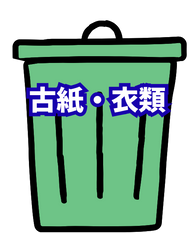
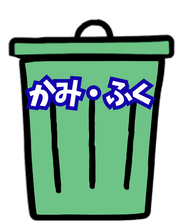
Add files via upload

Changed region(s): [[0.0275, 0.1622, 0.9066, 1.0], [0.4121, 0.0811, 0.6319, 0.1892], [0.2198, 0.1622, 0.2473, 0.1892]]

diff --git a/script.js b/script.js
@@ -210,7 +210,7 @@ class HomeScene extends Phaser.Scene {
     // 分別チャレンジ
     const btnChallenge = this.add.text(320, 260, "分別チャレンジ", {
       fontSize: "24px",
-      color: "#00796b",
+      color: "#444",
       padding: { top: 10, bottom: 0 }
     }).setInteractive({ useHandCursor: true }).setDepth(202);
 
@@ -221,7 +221,7 @@ class HomeScene extends Phaser.Scene {
     // アイテム一覧
     const btnItems = this.add.text(320, 320, "アイテム一覧", {
       fontSize: "24px",
-      color: "#444",
+      color: "#00796b",
       padding: { top: 10, bottom: 0 }
     }).setInteractive({ useHandCursor: true }).setDepth(202);
 
@@ -271,8 +271,100 @@ class StartScene extends Phaser.Scene {
     this.load.image('cloth', 'assets/trash/cloth.png');
     this.load.image('battery', 'assets/trash/battery.png');
     this.load.image('handyfan', 'assets/trash/handyfan.png');
-
+    this.load.image("howto_page1", "assets/ui/howto_page1.png");
+    this.load.image("howto_page2", "assets/ui/howto_page2.png");
+    this.load.image("arrow_left", "assets/ui/arrow_left.png");
+    this.load.image("arrow_right", "assets/ui/arrow_right.png");
+    this.load.image("howto_button", "assets/ui/howto_button.png");
   }
+  openHelpPopup() {
+    // 暗幕
+    const dim = this.add.rectangle(400, 300, 800, 600, 0x000000, 0.55)
+      .setDepth(200)
+      .setInteractive();
+
+    // パネル
+    const panel = this.add.image(400, 300, "help_panel")
+      .setDepth(201)
+      .setScale(0.6);
+
+    // 暗幕をクリックで閉じる
+    dim.on("pointerdown", () => {
+      dim.destroy();
+      panel.destroy();
+    });
+  }
+  openHowtoPopup() {
+
+  //暗幕
+  const dim = this.add.rectangle(400, 300, 800, 600, 0x000000, 0.55)
+    .setDepth(200)
+    .setInteractive();
+
+  //ページ1
+  const page1 = this.add.image(400, 300, "howto_page1")
+    .setDepth(201)
+    .setScale(0.6);
+
+  //右矢印ページ２へ
+  const arrowRight = this.add.image(730, 300, "arrow_right")
+    .setDepth(202)
+    .setScale(0.3)
+    .setInteractive({ useHandCursor: true });
+
+  //ページ２最初は非表示
+  const page2 = this.add.image(400, 300, "howto_page2")
+    .setDepth(201)
+    .setScale(0.6)
+    .setVisible(false);
+
+  //左矢印ページ１へ、最初は非表示
+  const arrowLeft = this.add.image(70, 300, "arrow_left")
+    .setDepth(202)
+    .setScale(0.3)
+    .setVisible(false)
+    .setInteractive({ useHandCursor: true });
+
+
+  //右矢印：ページ２
+
+  arrowRight.on("pointerdown", () => {
+    page1.setVisible(false);
+    arrowRight.setVisible(false);
+
+    page2.setVisible(true);
+    arrowLeft.setVisible(true);
+  });
+
+
+  //左矢印：ページ１に戻る
+
+  arrowLeft.on("pointerdown", () => {
+    page2.setVisible(false);
+    arrowLeft.setVisible(false);
+
+    page1.setVisible(true);
+    arrowRight.setVisible(true);
+  });
+
+
+  //　暗幕クリックでポップアップ閉じる
+
+  dim.on("pointerdown", () => {
+    dim.destroy();
+    page1.destroy();
+    page2.destroy();
+    arrowLeft.destroy();
+    arrowRight.destroy();
+  });
+
+  // パネル内クリックは閉じない
+  page1.on("pointerdown", e => e.stopPropagation());
+  page2.on("pointerdown", e => e.stopPropagation());
+  arrowLeft.on("pointerdown", e => e.stopPropagation());
+  arrowRight.on("pointerdown", e => e.stopPropagation());
+}
+
   create() {
 
     currentDifficulty = "easy";
@@ -327,6 +419,55 @@ class StartScene extends Phaser.Scene {
 
     // 初期マーク表示
     this.showDifficultyMark(this.difficultyButtons[0]);
+
+    // ヘルプボタン
+    const helpBtn = this.add.image(760, 35, "help_button")
+      .setDepth(30)
+      .setScale(0.15)
+      .setInteractive({ useHandCursor: true });
+
+    //ホバー
+    helpBtn.on("pointerover", () => {
+      this.tweens.add({ targets: helpBtn, scale: 0.17, duration: 120 });
+    });
+    helpBtn.on("pointerout", () => {
+      this.tweens.add({ targets: helpBtn, scale: 0.15, duration: 120 });
+    });
+
+    helpBtn.on("pointerdown", () => {
+      this.openHelpPopup();
+    });
+
+    //あそびかたボタン
+    const howtoBtn = this.add.image(490, 206, "howto_button")
+      .setInteractive({ useHandCursor: true })
+      .setScale(0.66);
+
+    // ホバー演出
+    howtoBtn.on("pointerover", () => {
+      this.tweens.add({
+        targets: howtoBtn,
+        scale: 0.76,
+        duration: 120
+      });
+    });
+    howtoBtn.on("pointerout", () => {
+      this.tweens.add({
+        targets: howtoBtn,
+        scale: 0.66,
+        duration: 120
+      });
+    });
+
+
+    howtoBtn.on("pointerdown", () => {
+      this.openHowtoPopup();
+
+
+
+
+    });
+
 
     // 戻るボタン
     const backBtn = this.add.image(490, 280, "back_button")
@@ -442,6 +583,7 @@ class GameScene extends Phaser.Scene {
     this.load.image("nice", "assets/ui/nice.png");
     this.load.image("perfect", "assets/ui/perfect.png");
     this.load.image("char_frame", "assets/ui/char_frame.png");
+    this.load.image("help_button_locked", "assets/ui/help_button_locked.png");
   }
 
   init(data) {
@@ -555,28 +697,42 @@ class GameScene extends Phaser.Scene {
 
 
 
-    this.timeLimit = 30;
-    this.timerText = this.add.text(20, 20, "時間: 60", { fontSize: "24px", color: "#000", padding: { top: 10, bottom: 0 } }).setDepth(102);
+    this.timeLimit = 40;
+    this.timerText = this.add.text(20, 20, "時間: 40", { fontSize: "24px", color: "#000", padding: { top: 10, bottom: 0 } }).setDepth(102);
     this.scoreText = this.add.text(180, 20, "スコア: 0", { fontSize: "24px", color: "#000", padding: { top: 10, bottom: 0 } }).setDepth(102);
 
     // ？ボタン
-    this.helpBtn = this.add.image(760, 35, "help_button")
-      .setDepth(110)        //帯より前
-      .setScale(0.15)
-      .setInteractive({ useHandCursor: true });
+    // 難易度に応じてヘルプボタンを変更
+    if (this.difficultyKey === "easy") {
 
-    // ホバー演出
-    this.helpBtn.on("pointerover", () => {
-      this.tweens.add({ targets: this.helpBtn, scale: 0.17, duration: 120 });
-    });
-    this.helpBtn.on("pointerout", () => {
-      this.tweens.add({ targets: this.helpBtn, scale: 0.15, duration: 120 });
-    });
+      // ◆ かんたん：使えるヘルプボタン
+      this.helpBtn = this.add.image(760, 35, "help_button")
+        .setDepth(110)
+        .setScale(0.15)
+        .setInteractive({ useHandCursor: true });
 
-    // クリックでヘルプポップアップ
-    this.helpBtn.on("pointerdown", () => {
-      this.openHelpPopup();
-    });
+      // ホバー演出
+      this.helpBtn.on("pointerover", () => {
+        this.tweens.add({ targets: this.helpBtn, scale: 0.17, duration: 120 });
+      });
+      this.helpBtn.on("pointerout", () => {
+        this.tweens.add({ targets: this.helpBtn, scale: 0.15, duration: 120 });
+      });
+
+      //クリックでヘルプポップアップ
+      this.helpBtn.on("pointerdown", () => {
+        this.openHelpPopup();
+      });
+
+    } else {
+
+      // ◆ ふつう・むずかしいはロックされたボタン
+      this.helpBtnLocked = this.add.image(760, 35, "help_button_locked")
+        .setDepth(110)
+        .setScale(0.2);
+
+    }
+
 
     // 分別エリア数を難易度に応じて制限
     const categoryCount = this.settings.categories;
@@ -751,7 +907,7 @@ class GameScene extends Phaser.Scene {
             "普通ごみ": "ふつうゴミ",
             "資源ごみ": "しげんゴミ",
             "プラスチック資源": "プラスチックしげん",
-            "古紙衣類": "古紙衣類",
+            "古紙衣類": "かみ・ふく",
             "バッテリー類": "バッテリー"
           };
           const showItemName = DISPLAY_NAME[wrongName] || wrongName;
@@ -1286,7 +1442,7 @@ class ResultScene extends Phaser.Scene {
 
     // 更新していたら演出
     if (isBestUpdate) {
-      const img = this.add.image(650, 220, "best_update")
+      const img = this.add.image(650, 150, "best_update")
 
         .setScale(0.3);
 
